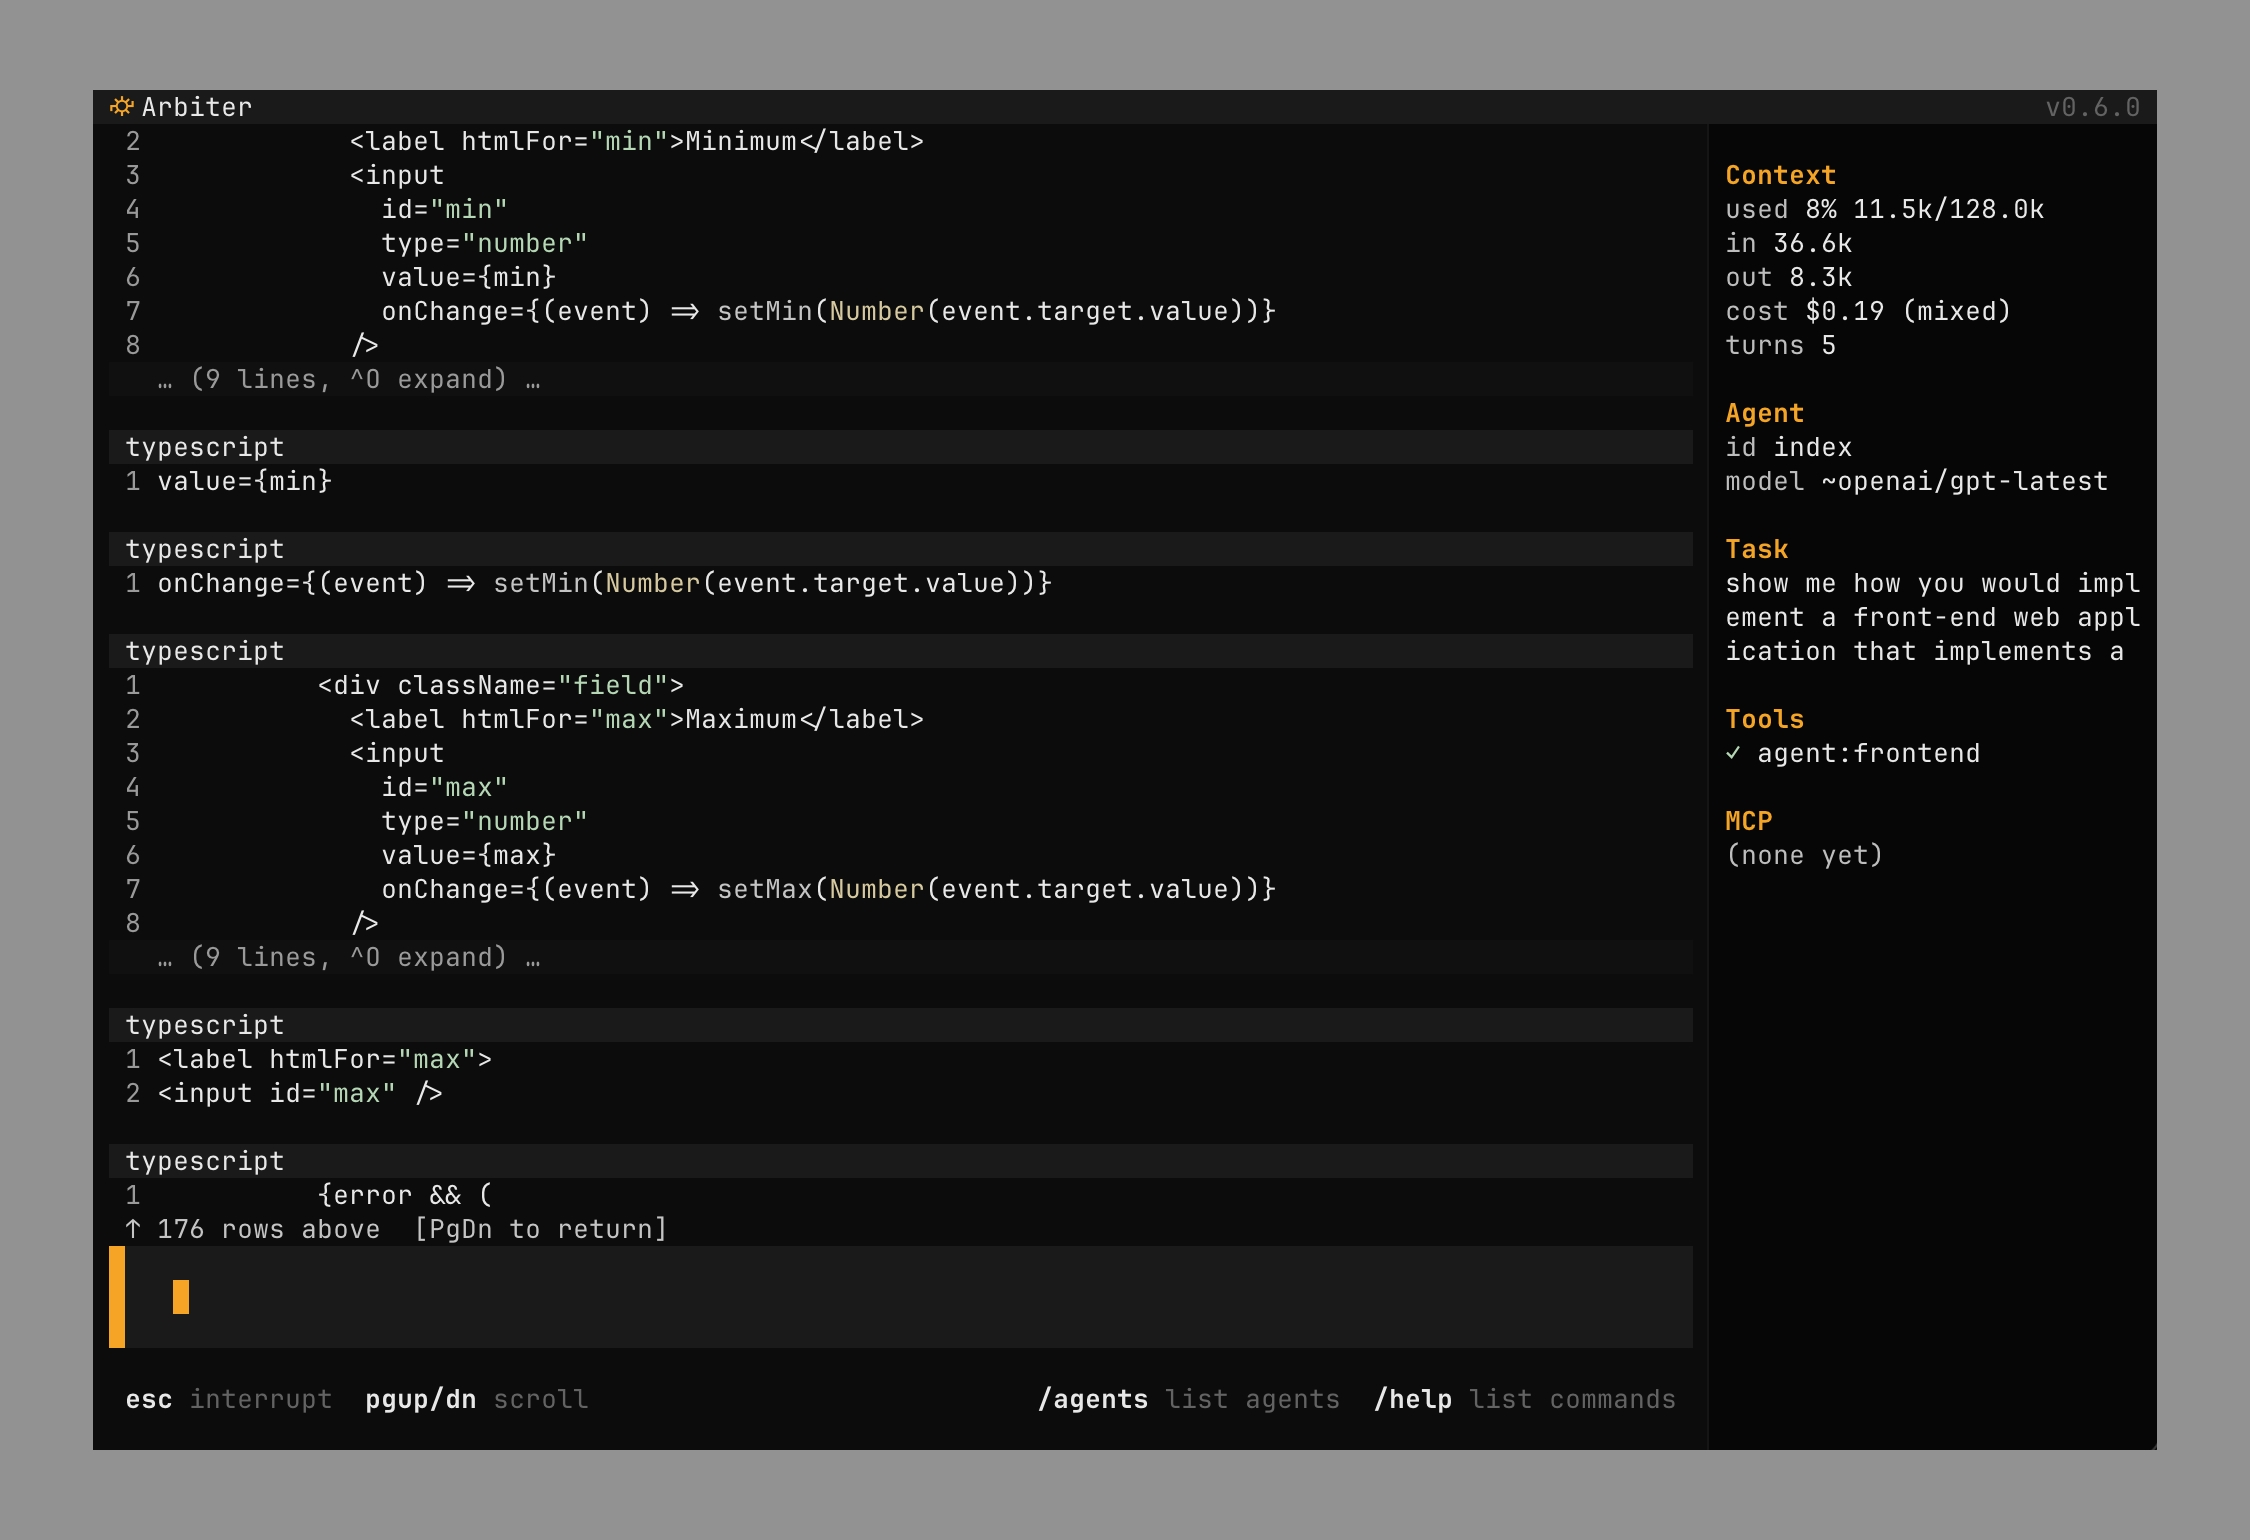
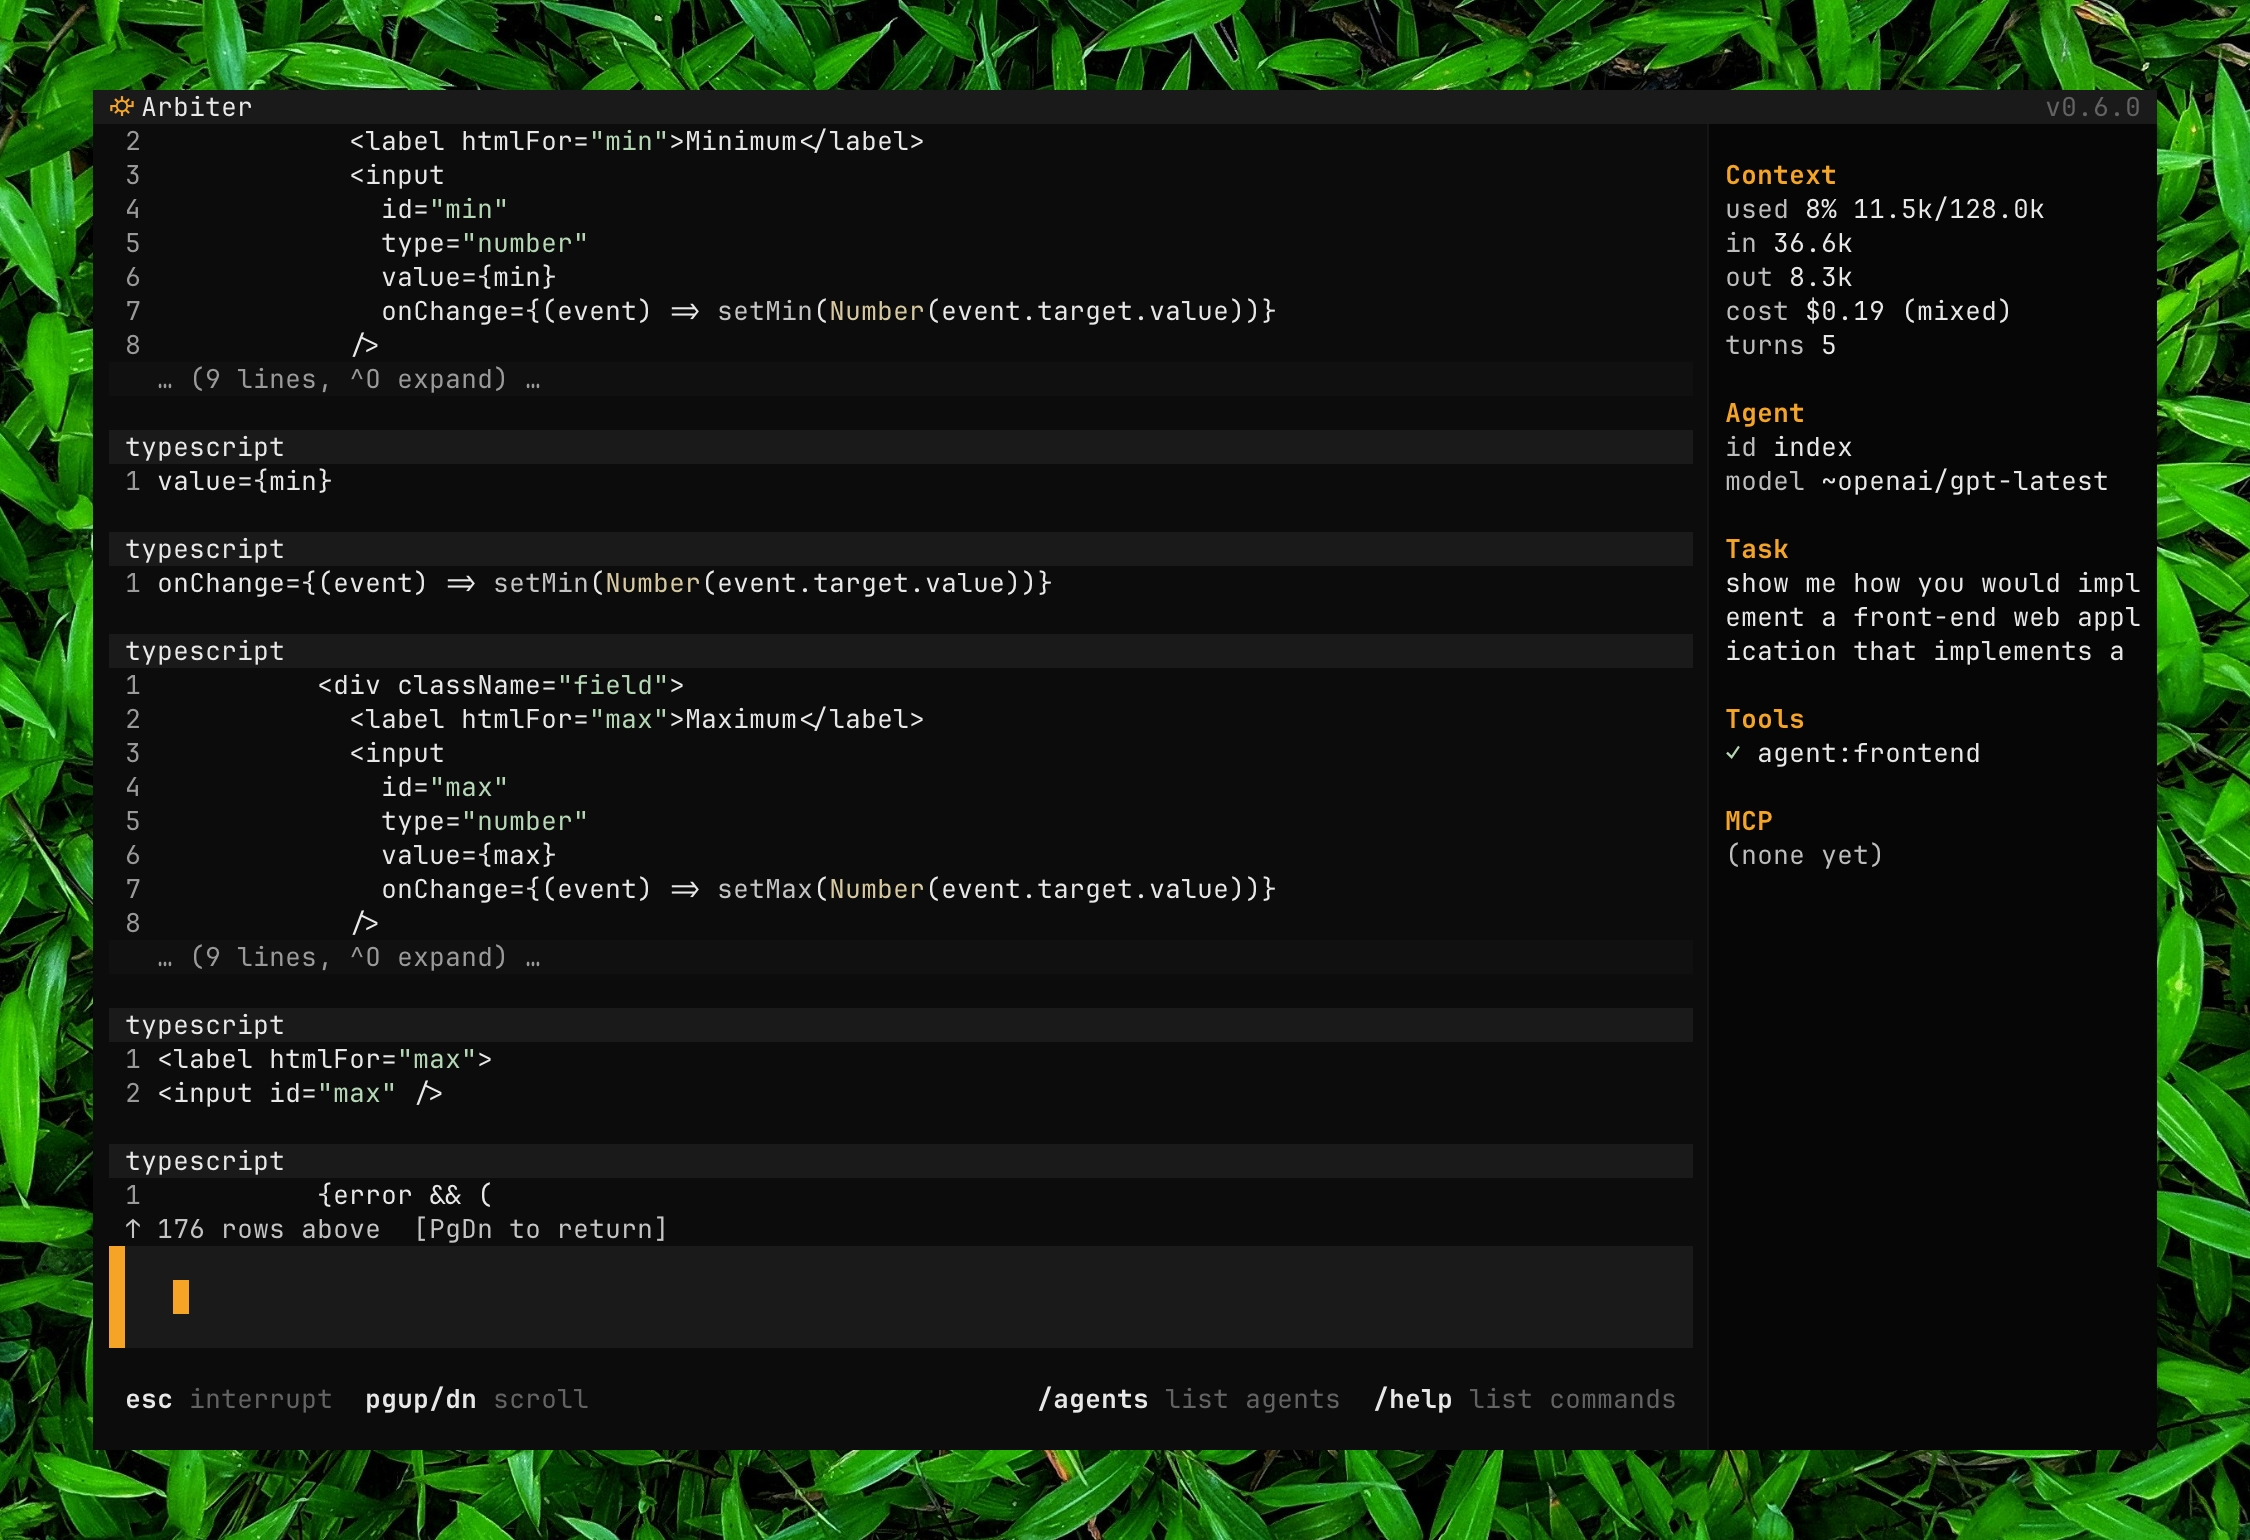
Give the title worker its own client so it can't touch a destroyed Orchestrator
run_title_job spawned a detached worker that captured a raw Orchestrator* and
called orch->client().complete() under a 10s caller-side timeout. If the title
call was still in flight past that timeout when the process exited (or the
Orchestrator was otherwise torn down) — plausible on a slow/hung provider
connection during /quit — the detached thread dereferenced a dangling pointer
(issue #51).

Mint a standalone ApiClient up front, synchronously, while still on the title
worker thread (which ~ConversationStore joins before the owning Orchestrator is
destroyed), and capture only that owned client into the detached worker. The
worker now touches nothing owned by the Orchestrator, so it fails safe: it
keeps using its own client and destroys it when the call returns, regardless of
what happens to the Orchestrator. Same construction as make_parallel_invoker's
per-child clients, via a new Orchestrator::make_side_client().

On timeout, cancel() the abandoned client so the detached worker returns
promptly and drops it instead of lingering on a hung connection (safe: the
worker holds its own shared_ptr, keeping the client alive across the cancel).

Changed region(s): [[0.0, 0.0, 1.0, 1.0]]

diff --git a/src/repl/conversation_store.cpp b/src/repl/conversation_store.cpp
@@ -12,6 +12,7 @@
 #include <filesystem>
 #include <fstream>
 #include <future>
+#include <memory>
 #include <sstream>
 
 namespace fs = std::filesystem;
@@ -578,20 +579,26 @@ std::string build_title_prompt(const std::string& user_msg, const std::string& a
 void ConversationStore::run_title_job(const TitleJob& job) {
     const std::string prompt = build_title_prompt(job.user_msg, job.assistant_msg);
     const std::string model = job.model;
-    Orchestrator* orch = job.orch;
 
-    // The one-shot completion runs on its own detached thread so we can
-    // enforce the 10s timeout from our side (ApiClient has no per-request
-    // timeout of its own). The promise is heap-allocated and captured by
-    // the detached thread, so if we give up waiting, that thread can still
-    // safely call set_value() later — a std::promise's destructor (unlike
-    // std::async's shared state) never blocks. The narrow residual risk is
-    // a title call still in flight at process exit touching `orch` after
-    // it's destroyed; titling is best-effort metadata, not worth adding
-    // real request cancellation for.
+    // Mint a standalone client for this one-shot call *now*, synchronously,
+    // while we're still on the title worker thread (which ~ConversationStore
+    // joins before the Orchestrator that owns job.orch is destroyed).  The
+    // detached worker below then captures only this owned client — never
+    // job.orch — so if the title call is still in flight past our 10s wait
+    // when the process exits or the Orchestrator is torn down, the worker
+    // keeps using its own client and destroys it when it returns, instead of
+    // dereferencing a dangling Orchestrator (issue #51).
+    std::shared_ptr<ApiClient> client = job.orch->make_side_client();
+
+    // The completion runs on its own detached thread so we can enforce the
+    // 10s timeout from our side (ApiClient has no per-request timeout of its
+    // own). The promise is heap-allocated and captured by the detached
+    // thread, so if we give up waiting, that thread can still safely call
+    // set_value() later — a std::promise's destructor (unlike std::async's
+    // shared state) never blocks.
     auto prom = std::make_shared<std::promise<std::string>>();
     std::future<std::string> fut = prom->get_future();
-    std::thread worker([orch, model, prompt, prom]() {
+    std::thread worker([client, model, prompt, prom]() {
         ApiRequest req;
         req.model = model;
         req.system_prompt =
@@ -600,7 +607,7 @@ void ConversationStore::run_title_job(const TitleJob& job) {
         req.max_tokens = 32;
         req.temperature = 0.3;
         req.messages = {Message{"user", prompt}};
-        ApiResponse resp = orch->client().complete(req);
+        ApiResponse resp = client->complete(req);
         try {
             prom->set_value(resp.ok ? resp.content : std::string());
         } catch (...) {
@@ -611,6 +618,13 @@ void ConversationStore::run_title_job(const TitleJob& job) {
     std::string raw;
     if (fut.wait_for(std::chrono::seconds(10)) == std::future_status::ready) {
         raw = fut.get();
+    } else {
+        // Timed out: abandon the result, but interrupt the abandoned request
+        // so the detached worker returns promptly and drops its client rather
+        // than lingering on a slow/hung provider connection.  Safe because the
+        // worker holds its own shared_ptr to `client`, keeping it alive across
+        // this cancel().
+        client->cancel();
     }
 
     const std::string sanitized = sanitize_model_title(raw);

diff --git a/include/orchestrator.h b/include/orchestrator.h
@@ -302,6 +302,18 @@ public:
 
     ApiClient& client() { return client_; }
 
+    // Mint a standalone ApiClient from this orchestrator's provider keys, for
+    // best-effort side work (e.g. conversation titling) that runs on a
+    // detached worker.  The returned client is fully independent and holds no
+    // back-reference to this Orchestrator, so a worker that outlives us — a
+    // title call still in flight at process exit — keeps using its own client
+    // and cleans it up when it returns, instead of dereferencing a destroyed
+    // Orchestrator (issue #51).  Same construction as make_parallel_invoker's
+    // per-child clients.
+    std::unique_ptr<ApiClient> make_side_client() const {
+        return std::make_unique<ApiClient>(api_keys_);
+    }
+
     // Interrupt any in-progress API call across the master and all agents.
     // Thread-safe — can be called from the readline/main thread while the
     // exec thread is blocked in a streaming read.